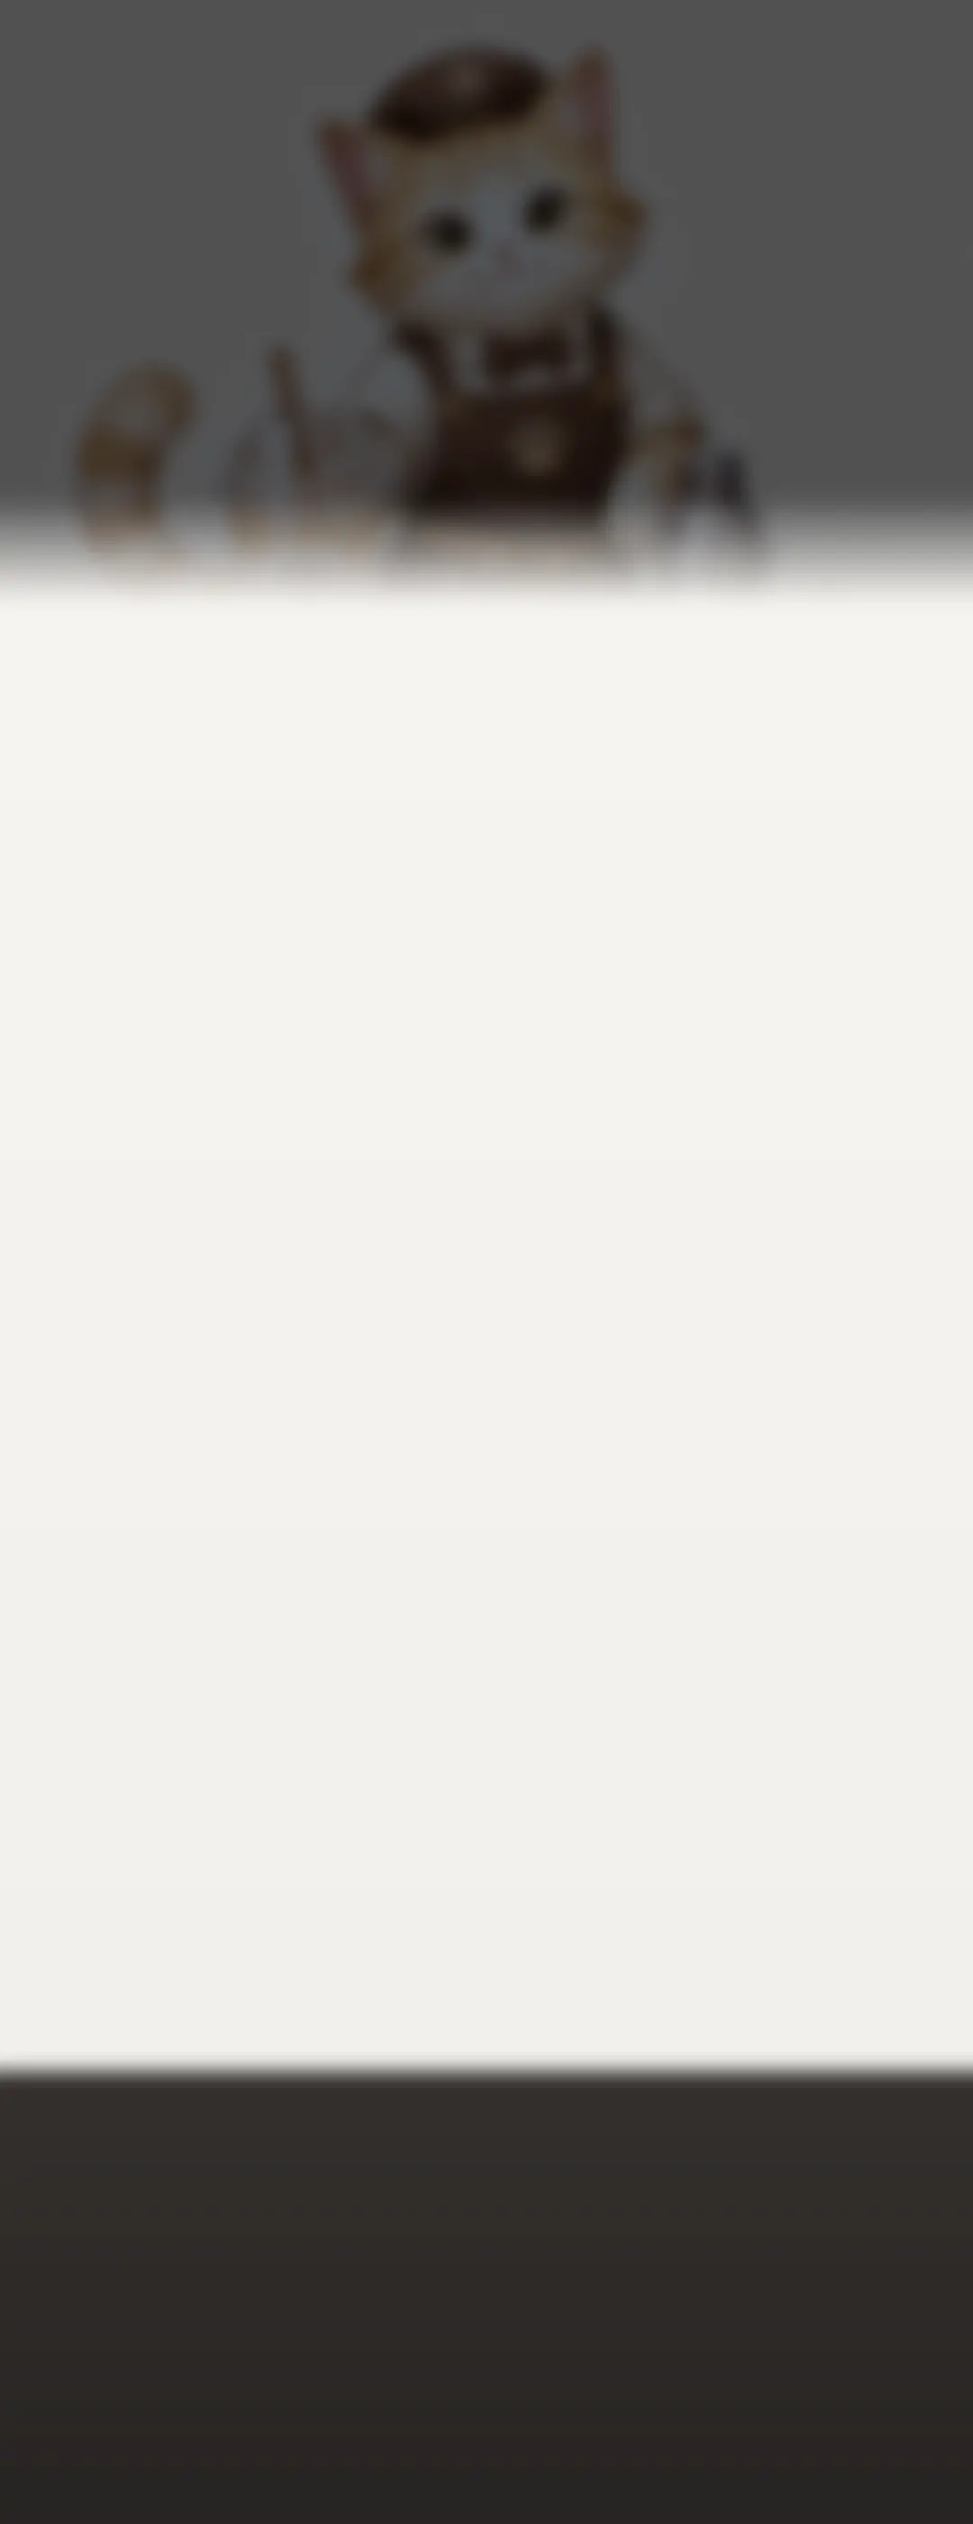
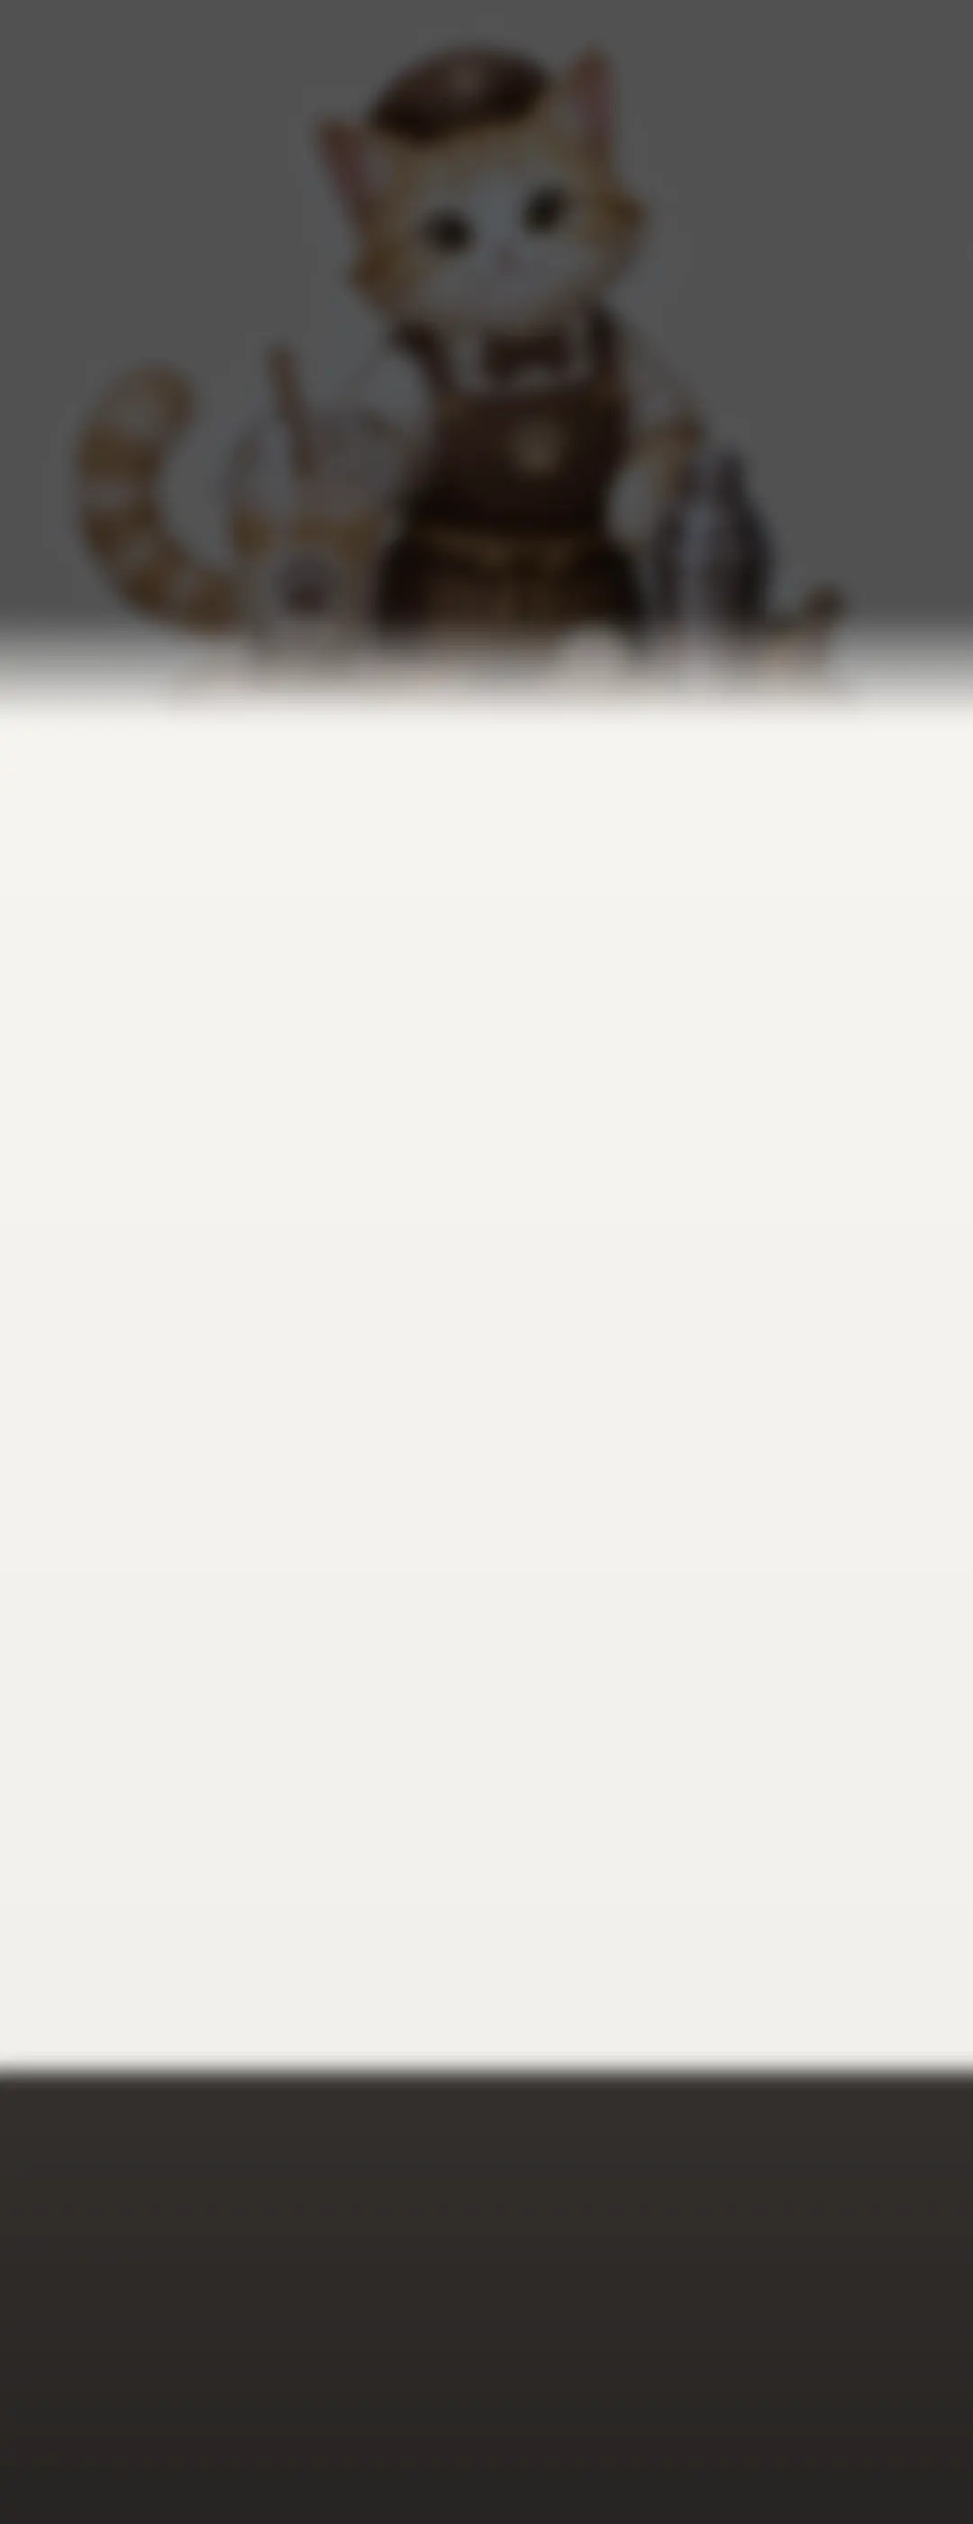
工單#4 任務2：客人放大貼頂（半身圖，佔畫面高約19%），安全區上界470→600，空位用空椅剪影

Changed region(s): [[0.0, 0.1864, 1.0, 0.2796]]

diff --git a/webapp/styles.css b/webapp/styles.css
@@ -127,7 +127,8 @@ body {
   position: relative; z-index: 40;
   height: 100%; width: 100%;
   display: grid;
-  grid-template-rows: 10% 10% 53% 15% 12%;   /* 頂欄 · 客人排 · 杯陣安全區 · 摩卡+對話 · 按鈕區 */
+  /* 工單 #4 版面（1080 × 2400）：頂欄 0–160 · 客人區 160–560（含托盤）· 間隔 560–600 · 杯陣安全區 600–1750 · 摩卡 1750–2100 · 按鈕 2100–2400 */
+  grid-template-rows: 6.67% 16.67% 1.67% 47.92% 14.58% 12.49%;
 }
 @media (min-aspect-ratio: 3/4) {
   .game-col { width: min(100%, 68vh); }
@@ -157,30 +158,42 @@ body {
 .pace-stars .off { color: #D9CDB8; text-shadow: none; }
 .pace-moves { font-size: 10px; font-weight: 800; color: #9A7B58; }
 
-/* 客人排 */
-.zone-customers { display: flex; align-items: flex-end; justify-content: center; gap: 10px; padding: 0 10px 2px; overflow: hidden; }
-.customer { display: flex; align-items: flex-end; gap: 4px; transition: opacity .4s, transform .4s; max-height: 100%; }
-.customer svg { width: clamp(38px, 7.5vh, 60px); height: auto; filter: drop-shadow(0 3px 4px rgba(80,50,20,0.25)); }
-.customer img.avatar {
-  width: clamp(44px, 8.5vh, 68px); height: clamp(44px, 8.5vh, 68px); border-radius: 50%;
-  border: 2.5px solid #fff; box-shadow: 0 3px 6px rgba(80,50,20,0.28); background: #FFF7EA; margin-bottom: 2px;
+/* 客人區（工單 #4 任務 2）：四個訂單槽水平均分；客人半身圖貼頂，高度 ≈ 畫面 19%，由頂邊出（可被頂欄少量遮住） */
+.zone-top { z-index: 60; grid-row: 1; }
+.zone-customers { grid-row: 2; }
+.zone-board { grid-row: 4; }
+.zone-mocha { grid-row: 5; }
+.zone-actions { grid-row: 6; }
+.zone-customers {
+  z-index: 35; overflow: visible;
+  display: grid; grid-template-columns: repeat(4, 1fr); gap: 6px; padding: 0 8px; align-items: end;
 }
-.customer.done img.avatar { filter: saturate(.7); }
-.customer .cbubble {
-  position: relative; background: #fff; border: 2px solid var(--tan-2); border-radius: 12px; padding: 4px 8px 4px 6px;
-  display: flex; align-items: center; gap: 5px; font-size: 12px; font-weight: 800; color: var(--brown-2); margin-bottom: 14px; white-space: nowrap;
+.slot { position: relative; height: 100%; min-width: 0; --label-h: 24px; }
+.slot:nth-child(1) { z-index: 1 } .slot:nth-child(2) { z-index: 2 } .slot:nth-child(3) { z-index: 3 } .slot:nth-child(4) { z-index: 4 }
+/* 客人半身圖：畫布 560 高、身體 480 → 22vh 畫布 ≈ 身體 18.9% 畫面高；底邊釘喺標籤 / 托盤頂 */
+.slot img.body {
+  position: absolute; bottom: var(--label-h); left: 50%; transform: translateX(-50%);
+  height: 22vh; width: auto; max-width: none;
+  filter: drop-shadow(0 4px 6px rgba(80,50,20,0.25)); transition: filter .3s;
 }
-.customer .cbubble::before { content: ""; position: absolute; left: -8px; bottom: 8px; border: 6px solid transparent; border-right-color: var(--tan-2); border-left: 0; }
-.customer .cbubble::after { content: ""; position: absolute; left: -5px; bottom: 9px; border: 5px solid transparent; border-right-color: #fff; border-left: 0; }
-.customer .sw { width: 16px; height: 16px; border-radius: 50%; border: 1.5px solid rgba(0,0,0,0.15); }
-.customer.done { opacity: .55; }
-.customer.done .cbubble { text-decoration: line-through; }
-.customer.done .cbubble::after { border-right-color: #fff; }
-.customer.done .tick { text-decoration: none; color: #2E8B57; }
-.customer.pop { animation: pop .5s ease; }
-@keyframes pop { 0% { transform: scale(1) } 40% { transform: scale(1.18) } 100% { transform: scale(1) } }
-.customers-note { font-size: 12px; font-weight: 700; color: #7C6448; background: rgba(255,255,255,0.7); padding: 4px 10px; border-radius: 999px; margin-bottom: 6px; }
-.customers-note.lock { color: var(--brown-2); }
+.slot.done img.body { filter: drop-shadow(0 4px 6px rgba(80,50,20,0.25)) saturate(.85); }
+.slot svg.chair { position: absolute; bottom: calc(var(--label-h) + 4px); left: 50%; transform: translateX(-50%); height: 9vh; width: auto; opacity: .3; }
+.slot .label {
+  position: absolute; left: 0; right: 0; bottom: 0; height: var(--label-h); box-sizing: border-box;
+  text-align: center; background: rgba(255,255,255,0.9); border: 1.5px solid var(--tan-2);
+  border-radius: 8px; padding: 2px 4px; font-size: 12px; font-weight: 800; color: var(--brown-2); white-space: nowrap; overflow: hidden; text-overflow: ellipsis;
+  display: flex; align-items: center; justify-content: center; gap: 4px;
+}
+.slot .sw { width: 14px; height: 14px; border-radius: 50%; border: 1.5px solid rgba(0,0,0,0.15); flex: 0 0 auto; }
+.slot.done .label { text-decoration: line-through; opacity: .6; }
+.slot.done .tick { text-decoration: none; color: #2E8B57; }
+.slot.pop img.body { animation: pop .5s ease; }
+@keyframes pop { 0% { transform: translateX(-50%) scale(1) } 40% { transform: translateX(-50%) scale(1.12) } 100% { transform: translateX(-50%) scale(1) } }
+.customers-note {
+  position: absolute; left: 50%; bottom: 2px; transform: translateX(-50%); z-index: 6;
+  font-size: 12px; font-weight: 700; color: #7C6448; background: rgba(255,255,255,0.85); padding: 4px 10px; border-radius: 999px; white-space: nowrap;
+}
+.customers-note.lock { left: auto; right: 8px; transform: none; color: var(--brown-2); bottom: auto; top: 4px; }
 
 /* 杯陣安全區 */
 .zone-board { }

diff --git a/webapp/src/client/main.js b/webapp/src/client/main.js
@@ -116,46 +116,43 @@ function mocha(state, text) {
   if (state === 'serve' || state === 'clear') { img.classList.remove('hop'); void img.offsetWidth; img.classList.add('hop'); }
 }
 
-// ---------- 客人排 ----------
-const FUR = ['#F2B36B', '#D9D0C2', '#8C6A4E', '#F6E7CF', '#A9A9B4', '#E7A27A'];
-function catSvg(fur, happy) {
-  const eyes = happy
-    ? `<path d="M22 30 q4 -5 8 0" stroke="#3E2A14" stroke-width="2.4" fill="none" stroke-linecap="round"/><path d="M42 30 q4 -5 8 0" stroke="#3E2A14" stroke-width="2.4" fill="none" stroke-linecap="round"/>`
-    : `<circle cx="26" cy="31" r="3.2" fill="#3E2A14"/><circle cx="46" cy="31" r="3.2" fill="#3E2A14"/><circle cx="27" cy="30" r="1" fill="#fff"/><circle cx="47" cy="30" r="1" fill="#fff"/>`;
-  return `<svg viewBox="0 0 72 60" xmlns="http://www.w3.org/2000/svg">
-    <path d="M14 26 L10 6 L28 16 Z" fill="${fur}" stroke="#7A4E1E" stroke-width="2" stroke-linejoin="round"/>
-    <path d="M58 26 L62 6 L44 16 Z" fill="${fur}" stroke="#7A4E1E" stroke-width="2" stroke-linejoin="round"/>
-    <path d="M15 24 L13 11 L25 18 Z" fill="#F7C6C0"/><path d="M57 24 L59 11 L47 18 Z" fill="#F7C6C0"/>
-    <ellipse cx="36" cy="36" rx="26" ry="22" fill="${fur}" stroke="#7A4E1E" stroke-width="2"/>
-    ${eyes}
-    <path d="M33 39 l3 3 l3 -3 z" fill="#E88D5A"/>
-    <path d="M30 44 q6 5 12 0" stroke="#3E2A14" stroke-width="2" fill="none" stroke-linecap="round"/>
-    <path d="M8 38 h14 M8 42 h14 M50 38 h14 M50 42 h14" stroke="#7A4E1E" stroke-width="1.4" stroke-linecap="round" opacity=".7"/>
+// ---------- 客人區 ----------
+/** 空椅剪影（訂單槽少於 4 個時填空位，alpha 0.3） */
+function chairSvg() {
+  return `<svg class="chair" viewBox="0 0 60 80" xmlns="http://www.w3.org/2000/svg" aria-hidden="true">
+    <rect x="12" y="4" width="36" height="34" rx="8" fill="#7A4E1E"/>
+    <rect x="6" y="40" width="48" height="12" rx="5" fill="#7A4E1E"/>
+    <rect x="10" y="52" width="6" height="26" rx="2" fill="#7A4E1E"/><rect x="44" y="52" width="6" height="26" rx="2" fill="#7A4E1E"/>
   </svg>`;
 }
+
+const SLOT_COUNT = 4;   // 客人區固定四個槽位；空位用空椅剪影
 
 function renderCustomers(popColor = null) {
   const el = $('#customers');
   const orders = G.board.orders;
   el.innerHTML = '';
+  // 四位食客（貓 / 兔 / 柴犬 / 熊）× 三表情：等待 wait · 出單 happy · 步數超三星門檻仍未出單 angry
+  const late = G.session && G.moves.length > G.session.starThresholds.three;
+  for (let i = 0; i < SLOT_COUNT; i++) {
+    const o = orders[i];
+    const slot = document.createElement('div');
+    if (!o) {
+      slot.className = 'slot empty';
+      slot.innerHTML = chairSvg();
+    } else {
+      const p = PALETTE[o.color];
+      const who = ((G.seatSeed + i) % 4) + 1;
+      const mood = o.filled ? 'happy' : late ? 'angry' : 'wait';
+      slot.className = 'slot' + (o.filled ? ' done' : '') + (popColor === o.color ? ' pop' : '');
+      slot.innerHTML = `<img class="body" src="${new URL(`../../assets/customer-${who}-${mood}-body.webp`, import.meta.url).href}" alt="">
+        <span class="label"><span class="sw" style="background:${p.hex}"></span>${p.zh}${o.filled ? '<span class="tick">✓</span>' : ''}</span>`;
+    }
+    el.appendChild(slot);
+  }
   if (!orders.length) {
     const s = document.createElement('span'); s.className = 'customers-note'; s.textContent = '今日冇客人落單 · 每種飲品裝滿一杯就收工';
     el.appendChild(s);
-  } else {
-    // 四位食客（貓 / 兔 / 柴犬 / 熊）× 三表情：等待 wait · 出單 happy · 步數超三星門檻仍未出單 angry
-    const late = G.session && G.moves.length > G.session.starThresholds.three;
-    orders.forEach((o, i) => {
-      const p = PALETTE[o.color];
-      const d = document.createElement('div');
-      d.className = 'customer' + (o.filled ? ' done' : '') + (popColor === o.color ? ' pop' : '');
-      const who = ((G.seatSeed + i) % 4) + 1;
-      const mood = o.filled ? 'happy' : late ? 'angry' : 'wait';
-      const face = i < 4
-        ? `<img class="avatar" src="${new URL(`../../assets/customer-${who}-${mood}.webp`, import.meta.url).href}" alt="">`
-        : catSvg(FUR[(G.seatSeed + i) % FUR.length], o.filled);
-      d.innerHTML = `${face}<span class="cbubble"><span class="sw" style="background:${p.hex}"></span>${p.zh}${o.filled ? '<span class="tick">✓</span>' : ''}</span>`;
-      el.appendChild(d);
-    });
   }
   const sealed = G.board.cups.filter(c => c.locked).length;
   if (sealed) {

diff --git a/webapp/src/client/boot.js b/webapp/src/client/boot.js
@@ -16,7 +16,7 @@ export const CORE_ASSETS = [
   { url: 'assets/cup-body.webp', bytes: 27_000 },
   { url: 'assets/cup-geom.json', bytes: 400 },
   ...['idle', 'pouring', 'serve', 'stuck', 'almost', 'clear'].map(k => ({ url: `assets/mocha-${k}.webp`, bytes: 42_000 })),
-  ...[1, 2, 3, 4].flatMap(c => ['wait', 'happy', 'angry'].map(m => ({ url: `assets/customer-${c}-${m}.webp`, bytes: 9_000 }))),
+  ...[1, 2, 3, 4].flatMap(c => ['wait', 'happy', 'angry'].map(m => ({ url: `assets/customer-${c}-${m}-body.webp`, bytes: 27_000 }))),
 ];
 
 /** 批次 3 — 延後（進入關卡後閒時載） */

diff --git a/webapp/src/client/background.js b/webapp/src/client/background.js
@@ -2,7 +2,7 @@
 // 層次：bg-far(0) → bg-mid(10) → bg-ambient(20) → readability-mask(30) → board(40) → characters(50) → ui(60)
 // 遮罩一定係程式畫（CSS gradient），透明度可以執行期調。氛圍層可一鍵關閉（FPS 救生索）。
 
-export const SAFE_TOP = 0.196;      // 470 / 2400
+export const SAFE_TOP = 0.25;       // 600 / 2400（工單 #4：客人區放大，安全區上界由 470 移到 600）
 export const SAFE_BOTTOM = 0.729;   // 1750 / 2400
 export const FADE = 0.042;          // 100 / 2400
 

diff --git a/webapp/tests/background.test.js b/webapp/tests/background.test.js
@@ -42,8 +42,8 @@ describe('background', () => {
     }
   });
 
-  test('遮罩幾何：安全區 470–1750 / 2400，上下 100px 過渡', () => {
-    assert.ok(Math.abs(SAFE_TOP - 470 / 2400) < 1e-3);
+  test('遮罩幾何：安全區 600–1750 / 2400，上下 100px 過渡', () => {
+    assert.ok(Math.abs(SAFE_TOP - 600 / 2400) < 1e-3);   // 工單 #4
     assert.ok(Math.abs(SAFE_BOTTOM - 1750 / 2400) < 1e-3);
     assert.ok(Math.abs(FADE - 100 / 2400) < 1e-3);
   });

diff --git a/webapp/tools/build-customers.py b/webapp/tools/build-customers.py
@@ -1,0 +1,70 @@
+# tools/build-customers.py — 工單 #4 任務 2：四位食客 × 三表情嘅「原始半身圖」（唔要圓形裁切）。
+#   python tools/build-customers.py
+# 來源：assets-raw/ 白底 JPG（三個表情同一構圖：坐喺櫃檯線後面、只露上半身、正面）。
+# 白底去背用較嚴嘅門檻（白毛食客邊緣），輸出 assets/customer-{N}-{mood}-body.webp（高 480px）。
+
+import os, glob, sys
+import numpy as np
+from PIL import Image, ImageDraw, ImageFilter
+
+ROOT = os.path.dirname(os.path.dirname(os.path.abspath(__file__)))
+RAW = os.path.join(os.path.dirname(ROOT), 'assets-raw')
+A = os.path.join(ROOT, 'assets')
+
+def raw(pattern):
+    hits = glob.glob(os.path.join(RAW, pattern))
+    if not hits: raise FileNotFoundError(pattern)
+    return hits[0]
+
+def keyout_white(im, tol=6):
+    """純白底去背：只由邊界 flood fill 近白（≥ 249、低彩度）像素；白毛內部唔會被食（唔連邊界）。"""
+    rgb = im.convert('RGB')
+    a = np.asarray(rgb).astype(np.int16)
+    H, W = a.shape[:2]
+    cand = (a.min(2) >= 255 - tol) & ((a.max(2) - a.min(2)) <= 4)
+    cm = Image.fromarray((cand * 255).astype(np.uint8), 'L').copy()
+    for x in range(0, W, 16):
+        for y in (0, H - 1):
+            if cm.getpixel((x, y)) == 255: ImageDraw.floodfill(cm, (x, y), 128)
+    for y in range(0, H, 16):
+        for x in (0, W - 1):
+            if cm.getpixel((x, y)) == 255: ImageDraw.floodfill(cm, (x, y), 128)
+    bg = np.asarray(cm) == 128
+    # 邊緣：由背景距離做 2px 柔邊
+    alpha = Image.fromarray(np.where(bg, 0, 255).astype(np.uint8), 'L').filter(ImageFilter.GaussianBlur(1.2))
+    out = rgb.convert('RGBA'); out.putalpha(alpha)
+    return out
+
+def trim(im, pad=6):
+    bb = im.getchannel('A').point(lambda v: 255 if v > 12 else 0).getbbox()
+    return im.crop((max(0, bb[0] - pad), max(0, bb[1] - pad), min(im.width, bb[2] + pad), min(im.height, bb[3] + pad)))
+
+# 1 貓（眼鏡圍巾） 2 兔 3 柴犬 4 熊（西裝）
+SRC = {
+    1: {'wait': '*neutral wait_552026838381203461.jpg', 'happy': '*delighted ex_552026760040030213.jpg', 'angry': '*impatient expr_552026722790432774.jpg'},
+    2: {'wait': '*neutral wait_552026239371661318.jpg', 'happy': '*delighted ex_552027978212704262.jpg', 'angry': '*impatient expr_552026282375884800.jpg'},
+    3: {'wait': '*neutral wait_552026183914610696.jpg', 'happy': '*delighted ex_552026135432663042.jpg', 'angry': '*impatient expr_552029929621028869.jpg'},
+    4: {'wait': '*neutral wait_552020618060619779.jpg', 'happy': '*delighted ex_552020696531820552 (1).jpg', 'angry': '*impatient expr_552020736394534919.jpg'},
+}
+BODY_H = 480        # 「等待」表情嘅身體高度
+CANVAS_H = 560      # 畫布高度（頂部留位畀心心 / 汗滴），底邊對齊櫃檯線
+for cid, faces in SRC.items():
+    ims = {mood: trim(keyout_white(Image.open(raw(pat)))) for mood, pat in faces.items()}
+    scale = BODY_H / ims['wait'].height           # 同一角色三個表情用同一縮放
+    scaled = {m: im.resize((round(im.width * scale), round(im.height * scale)), Image.LANCZOS) for m, im in ims.items()}
+    cw = max(im.width for im in scaled.values())
+    for mood, im in scaled.items():
+        canvas = Image.new('RGBA', (cw, CANVAS_H), (0, 0, 0, 0))
+        canvas.alpha_composite(im, ((cw - im.width) // 2, max(0, CANVAS_H - im.height)))
+        p = os.path.join(A, f'customer-{cid}-{mood}-body.webp')
+        canvas.save(p, 'WEBP', quality=86, method=6)
+        print(f'customer-{cid}-{mood}-body.webp {canvas.size} {os.path.getsize(p) // 1024} KB')
+
+# 檢視表
+files = sorted(glob.glob(os.path.join(A, 'customer-*-body.webp')))
+S = 240
+sheet = Image.new('RGB', (S * 6, S * 2 + 20), (70, 130, 80))
+for i, f in enumerate(files):
+    im = Image.open(f).convert('RGBA'); im.thumbnail((S, S))
+    sheet.paste(im, ((i % 6) * S + (S - im.width) // 2, (i // 6) * (S + 10)), im)
+sheet.save(os.path.join(os.environ.get('SCRATCH', ROOT), 'customers-body.png'))

diff --git a/webapp/tools/build-assets.py b/webapp/tools/build-assets.py
@@ -118,35 +118,7 @@ save(frame(1.00, 1.00, 0), 'mocha-idle-01.webp')
 save(frame(1.02, 0.975, 0), 'mocha-idle-02.webp')
 save(frame(1.01, 0.99, 1.5), 'mocha-idle-03.webp')
 
-# ---------------- 四位食客 × 三表情 ----------------
-# 1 貓（眼鏡圍巾） 2 兔 3 柴犬 4 熊（西裝）
-CUSTOMERS = {
-    1: {'wait': 'One quiet cup. Every morning. 副本 (12).png', 'happy': '*delighted ex_552026760040030213.jpg', 'angry': '*impatient expr_552026722790432774.jpg'},
-    2: {'wait': 'One quiet cup. Every morning. 副本 (14).png', 'happy': '*delighted ex_552027978212704262.jpg', 'angry': '*impatient expr_552026282375884800.jpg'},
-    3: {'wait': 'dog.png',                                    'happy': '*delighted ex_552026135432663042.jpg', 'angry': '*impatient expr_552029929621028869.jpg'},
-    # 熊嘅透明等待圖原檔已被覆蓋成杯（副本 (11).png），customer-4-wait.webp 沿用已生成版本
-    4: {'wait': 'bear-wait.png', 'happy': '*delighted ex_552020696531820552 (1).jpg', 'angry': '*impatient expr_552020736394534919.jpg'},
-}
-def avatar(im):
-    """頭部圓形頭像：以去背後 bbox 定位（頭喺上方），奶白底圓，256px。"""
-    im = trim(keyout(im))
-    w, h = im.size
-    side = int(w * 0.82)
-    cx, cy = w // 2, int(h * 0.40)
-    box = (cx - side // 2, cy - side // 2, cx + side // 2, cy + side // 2)
-    disc = Image.new('RGBA', (side, side), CREAM + (255,))
-    disc.alpha_composite(im.crop(box))
-    mask = Image.new('L', (side, side), 0); ImageDraw.Draw(mask).ellipse((0, 0, side - 1, side - 1), fill=255)
-    disc.putalpha(mask.filter(ImageFilter.GaussianBlur(0.8)))
-    return disc.resize((256, 256), Image.LANCZOS)
-for cid, faces in CUSTOMERS.items():
-    for mood, pat in faces.items():
-        try:
-            src = raw(pat)
-        except FileNotFoundError:
-            print(f'customer-{cid}-{mood}: source {pat} missing, keeping existing webp')
-            continue
-        save(avatar(Image.open(src)), f'customer-{cid}-{mood}.webp')
+# ---------------- 四位食客：見 tools/build-customers.py（半身圖，工單 #4）----------------
 
 # ---------------- 杯種（教學畫面用） ----------------
 # 新嘅白磨砂杯（白底白杯）同透明有蓋杯（膠身透出格仔）去唔到背，教學畫面沿用舊素材

diff --git a/webapp/tools/build-bg.py b/webapp/tools/build-bg.py
@@ -4,7 +4,7 @@
 #       assets/bg/manifest.json（每階段安全區平均 L*，供對比度自動測試用）
 #
 # 美術端預處理照規格做喺呢度：far 層高斯 10px、飽和 −30%、亮度 −10%。
-# Y 470–1750（+200 出血 → 670–1950）保持單一平坦表面。
+# Y 600–1750（+200 出血 → 800–1950）保持單一平坦表面（工單 #4 起）。
 
 import json, os, sys
 from PIL import Image, ImageFilter, ImageEnhance, ImageDraw
@@ -16,7 +16,7 @@ os.makedirs(OUT, exist_ok=True)
 
 W, H = 1080, 2800          # 含出血
 BLEED = 200
-SAFE_TOP, SAFE_BOT = 470 + BLEED, 1750 + BLEED
+SAFE_TOP, SAFE_BOT = 600 + BLEED, 1750 + BLEED   # 工單 #4：安全區上界 470 → 600
 
 # 階段：來源圖、色調（乘法）、亮度倍率、場景描述
 STAGES = [
